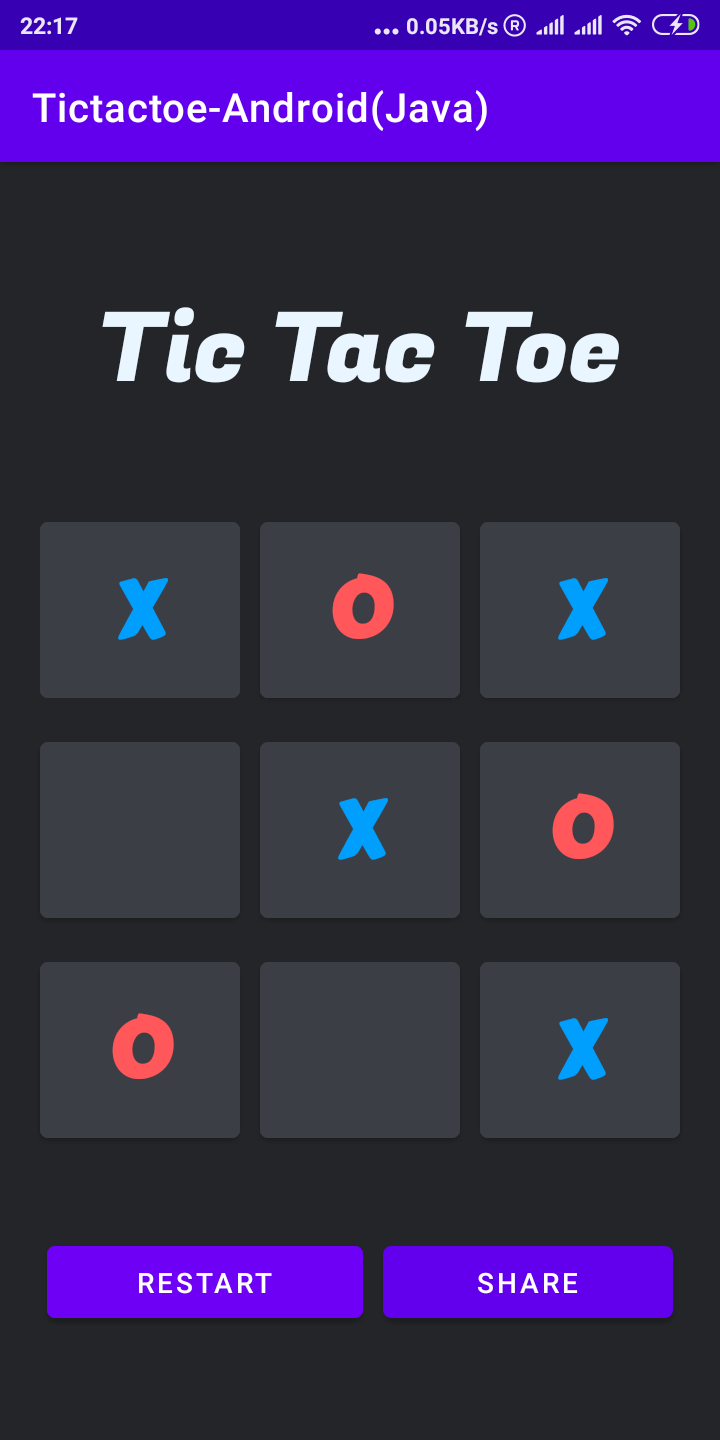
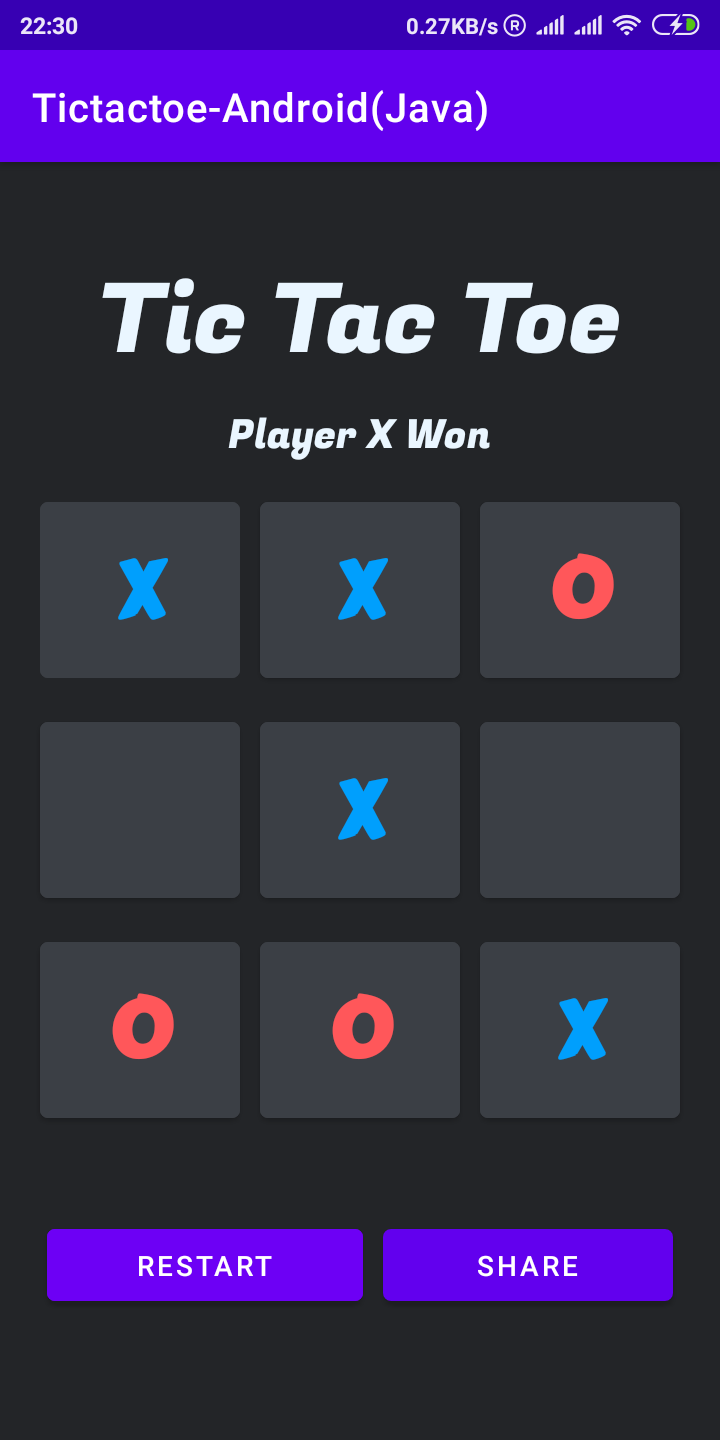
Update game status

diff --git a/app/src/main/java/com/example/tictactoe_androidjava/MainActivity.java b/app/src/main/java/com/example/tictactoe_androidjava/MainActivity.java
@@ -31,8 +31,8 @@ public class MainActivity extends AppCompatActivity implements View.OnClickListe
     private Button [] buttons = new Button[9];
     private Button btn_restart;
     private Button btn_share;
-
-    private int playerXScoreCount, playerOScoreCount, roundCount;
+    private TextView txt_result;
+    private int roundCount;
     boolean activePlayer;
 
     /*
@@ -55,6 +55,7 @@ public class MainActivity extends AppCompatActivity implements View.OnClickListe
 
         btn_restart = (Button) findViewById(R.id.btn_restart);
         btn_share = (Button) findViewById(R.id.btn_share);
+        txt_result = (TextView) findViewById(R.id.txt_result);
 
         for(int i = 0 ; i < buttons.length ; i++){
             String buttonID = "btn_" + i;
@@ -64,8 +65,6 @@ public class MainActivity extends AppCompatActivity implements View.OnClickListe
         }
 
         roundCount = 0;
-        playerXScoreCount = 0;
-        playerOScoreCount = 0;
         activePlayer = true;
     }
 
@@ -91,13 +90,14 @@ public class MainActivity extends AppCompatActivity implements View.OnClickListe
 
         if(checkWinner()){
             if(activePlayer){
-                playerXScoreCount++;
+                txt_result.setText("Player X Won");
                 Toast.makeText(this, "Player X Won", Toast.LENGTH_SHORT).show();
             } else {
-                playerOScoreCount++;
+                txt_result.setText("Player O Won");
                 Toast.makeText(this, "Player O Won", Toast.LENGTH_SHORT).show();
             }
         } else if(roundCount == 9){
+            txt_result.setText("No winner!");
             Toast.makeText(this, "No winner!", Toast.LENGTH_SHORT).show();
         } else {
             activePlayer = !activePlayer;
@@ -107,8 +107,6 @@ public class MainActivity extends AppCompatActivity implements View.OnClickListe
             @Override
             public void onClick(View v){
                 playAgain();
-                playerXScoreCount = 0;
-                playerOScoreCount = 0;
             }
         });
         verifyStoragePermission(MainActivity.this);
@@ -136,6 +134,7 @@ public class MainActivity extends AppCompatActivity implements View.OnClickListe
     public void playAgain(){
         roundCount = 0;
         activePlayer = true;
+        txt_result.setText("");
 
         for(int i = 0 ; i < buttons.length ; i++){
             gameState[i] = 2;
